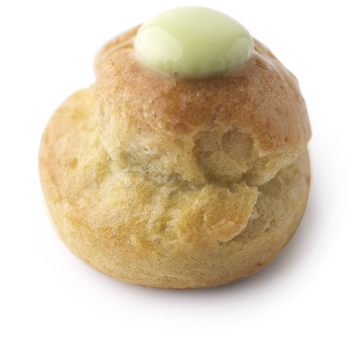
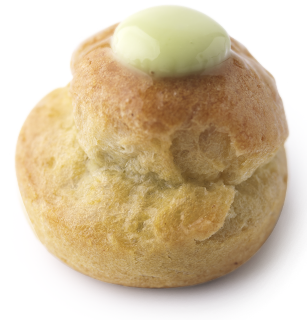
Creazione CSS prodotti e cambiate alcune size delle foto

diff --git a/website/www/css/screen.css b/website/www/css/screen.css
@@ -267,14 +267,37 @@ dt {
 	background-color: #FFF7E6;
 	border: 0.1em solid #FFAC61;
 	margin: 1em;
+	width: auto;
 }
 
 	.element p {
-		padding: 2em;
+		padding: 1em 1em 1em 1em;
+		vertical-align: center;
 	}
 
 	.element strong {
 		display: block;
+	}
+	
+	.element img {
+		padding: 0 1em 0.5em 0.5em;
+		width: 100%;
+		-webkit-box-sizing: border-box;
+		-moz-box-sizing: border-box;
+		box-sizing: border-box;
+	}
+	
+	.element h3 {
+		padding: 0.5em 0 1em 1em;
+		width: 100%;
+	}
+	
+	.element div:first-of-type{
+		width: 40%;
+	}
+	
+	.element div:last-of-type{
+		width: 60%;
 	}
 	
 .product{
@@ -330,7 +353,22 @@ dt {
 		width: 50%;
 	}
 	
+
 	
+	/*OVERRIDE*/
+	.element img {
+		width:auto;
+	}
+	
+	/*OVERRIDE*/
+	.element div:first-of-type{
+		width: 30%;
+	}
+	
+	/*OVERRIDE*/
+	.element div:last-of-type{
+		width: 70%;
+	}
 }
 
 /*!!!!!!!!!!!!!!!!!!!!!!!!!!!!!!!!!!!!!!!!!!!!!!!!!*/

diff --git a/website/www/php/backend/print_products.php b/website/www/php/backend/print_products.php
@@ -38,9 +38,12 @@ class Print_products{
         echo('<ul>');
         foreach($arrpage as &$prodotto){
             echo('<li class="product">');
-            echo('<div class="box a_column element">');
-            echo('<img src="'.$prodotto['Immagine'].'"/>');
+            echo('<div class="box full_column element">');
             echo('<h3>'.$prodotto['Nome'].'</h3>');
+			echo('<div>');
+			echo('<img src="'.$prodotto['Immagine'].'"/>');
+			echo('</div>');
+			echo('<div>');
             echo('<p>'.$prodotto['Descrizione'].'</p>');
             if(Admin::verify()){
                 echo('<form method="post" action="'.$_SERVER['REQUEST_URI'].'">');
@@ -53,6 +56,7 @@ class Print_products{
                 echo('<input type="submit" name="edit" value="Modifica prodotto"/>');
                 echo('</form>');
             }
+			echo('</div>');
             echo('</div>');
             echo('</li>');
         }

diff --git a/website/www/php/storia.php b/website/www/php/storia.php
@@ -10,7 +10,7 @@ echo(Print_content::top('xhtml+aria'));
 echo(Print_content::openHTML());
 Print_content::head();
 echo(Print_content::openBody());
-echo(Print_content::header('Dietro ad una grande pasticceria, c\'è anche una grande tradizione','storia.php')."\r");
+echo(Print_content::header('Dietro una grande pasticceria, c\'è una grande tradizione','storia.php')."\r");
 echo(Print_content::breadcrumb('<strong>Storia</strong>')."\r");
 echo(Print_content::openGeneralContainer());
 echo(Print_content::menu("storia.php"));
